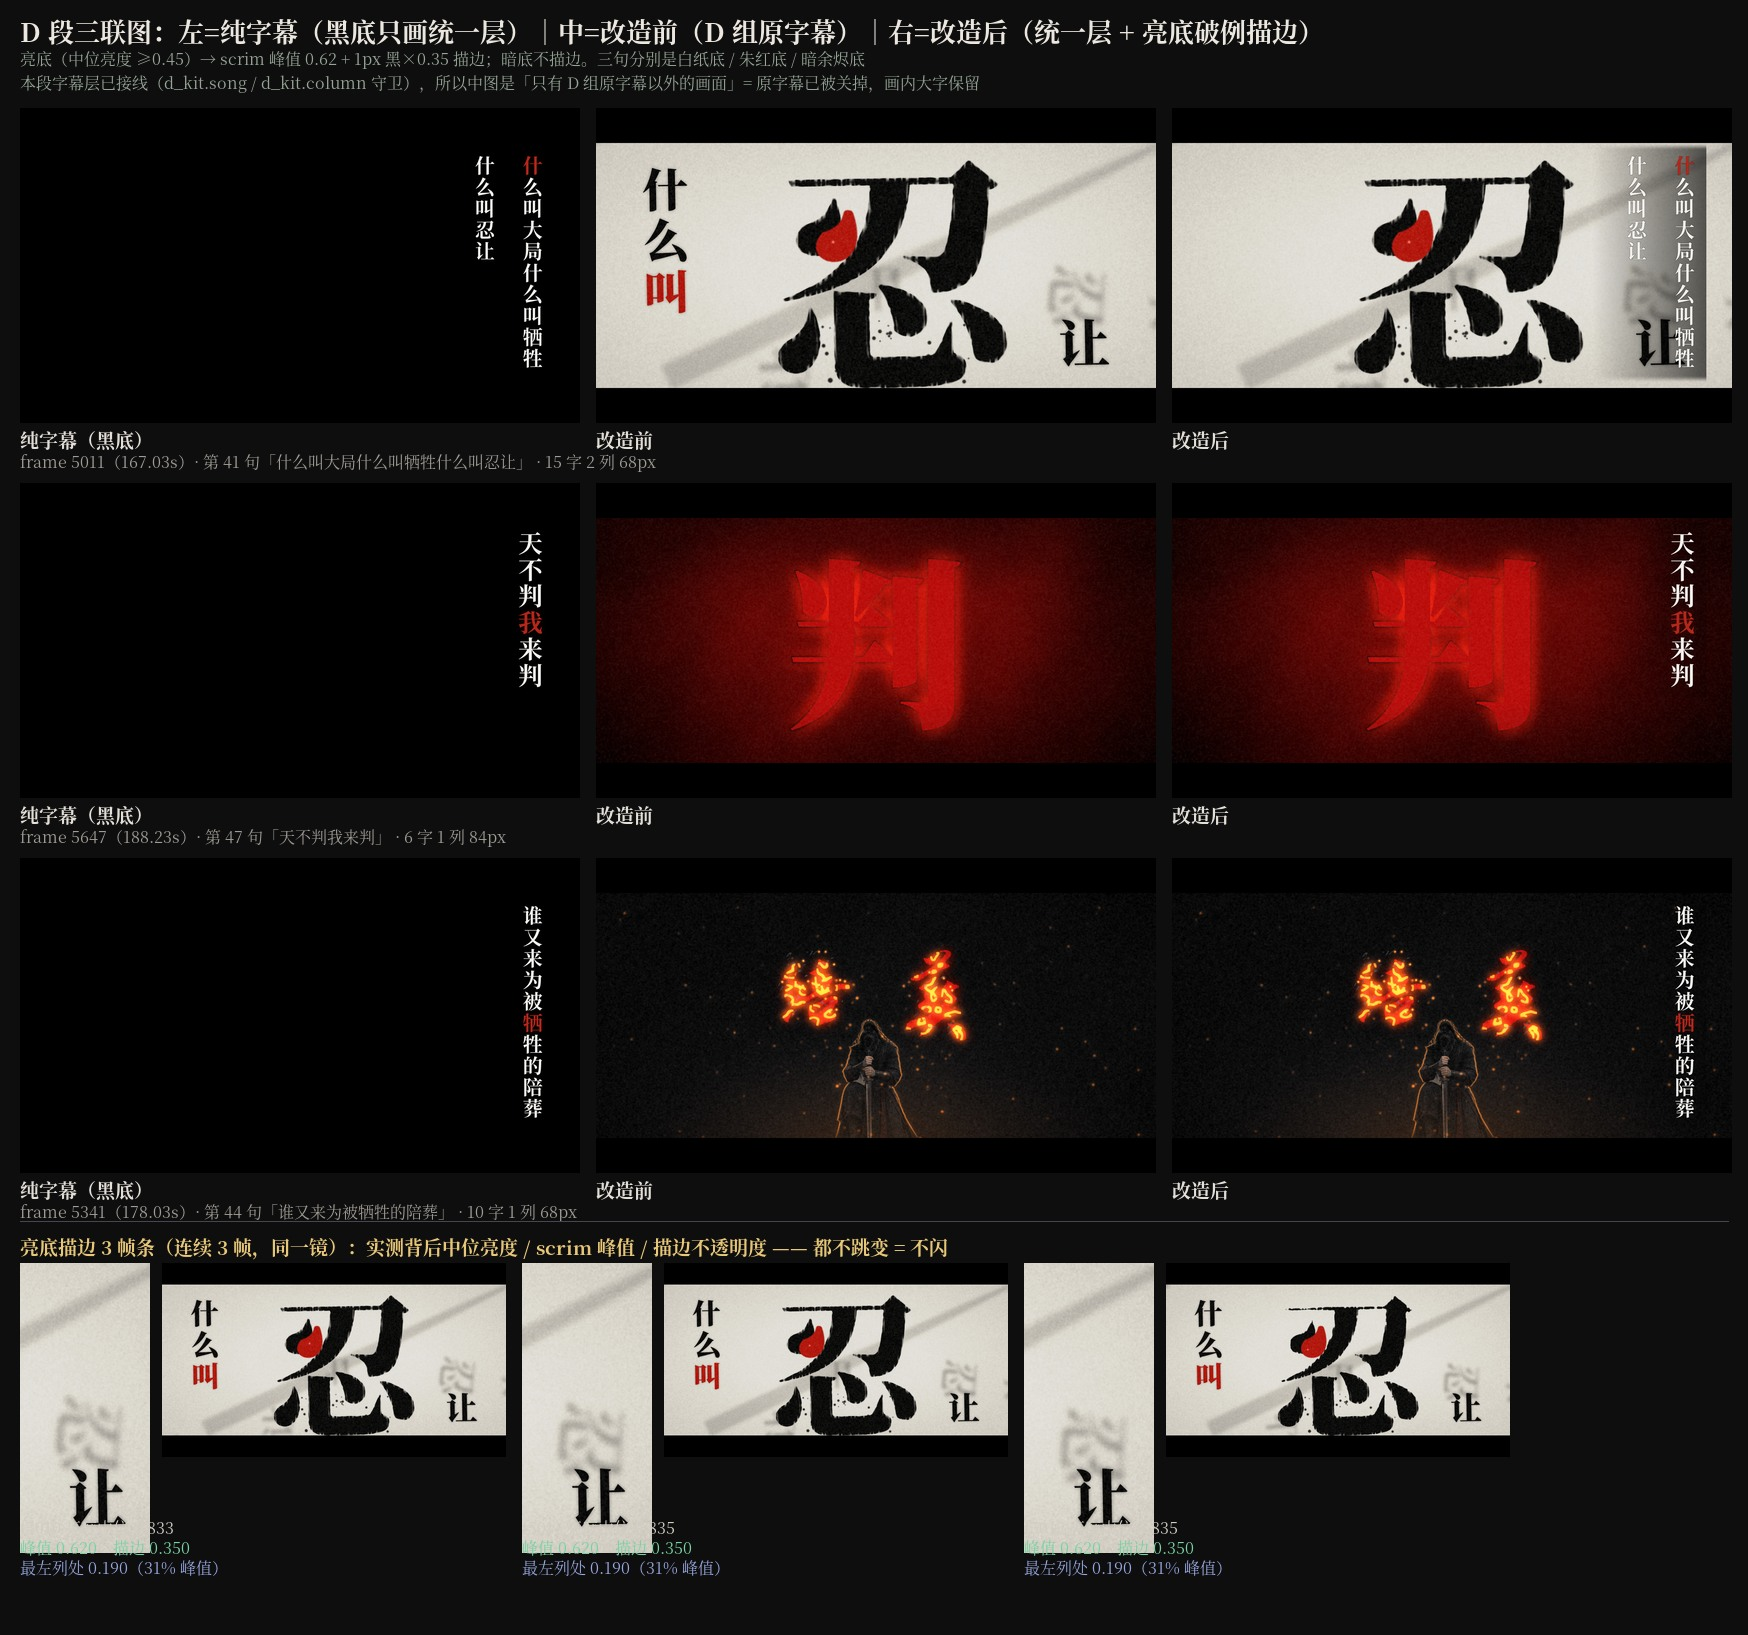
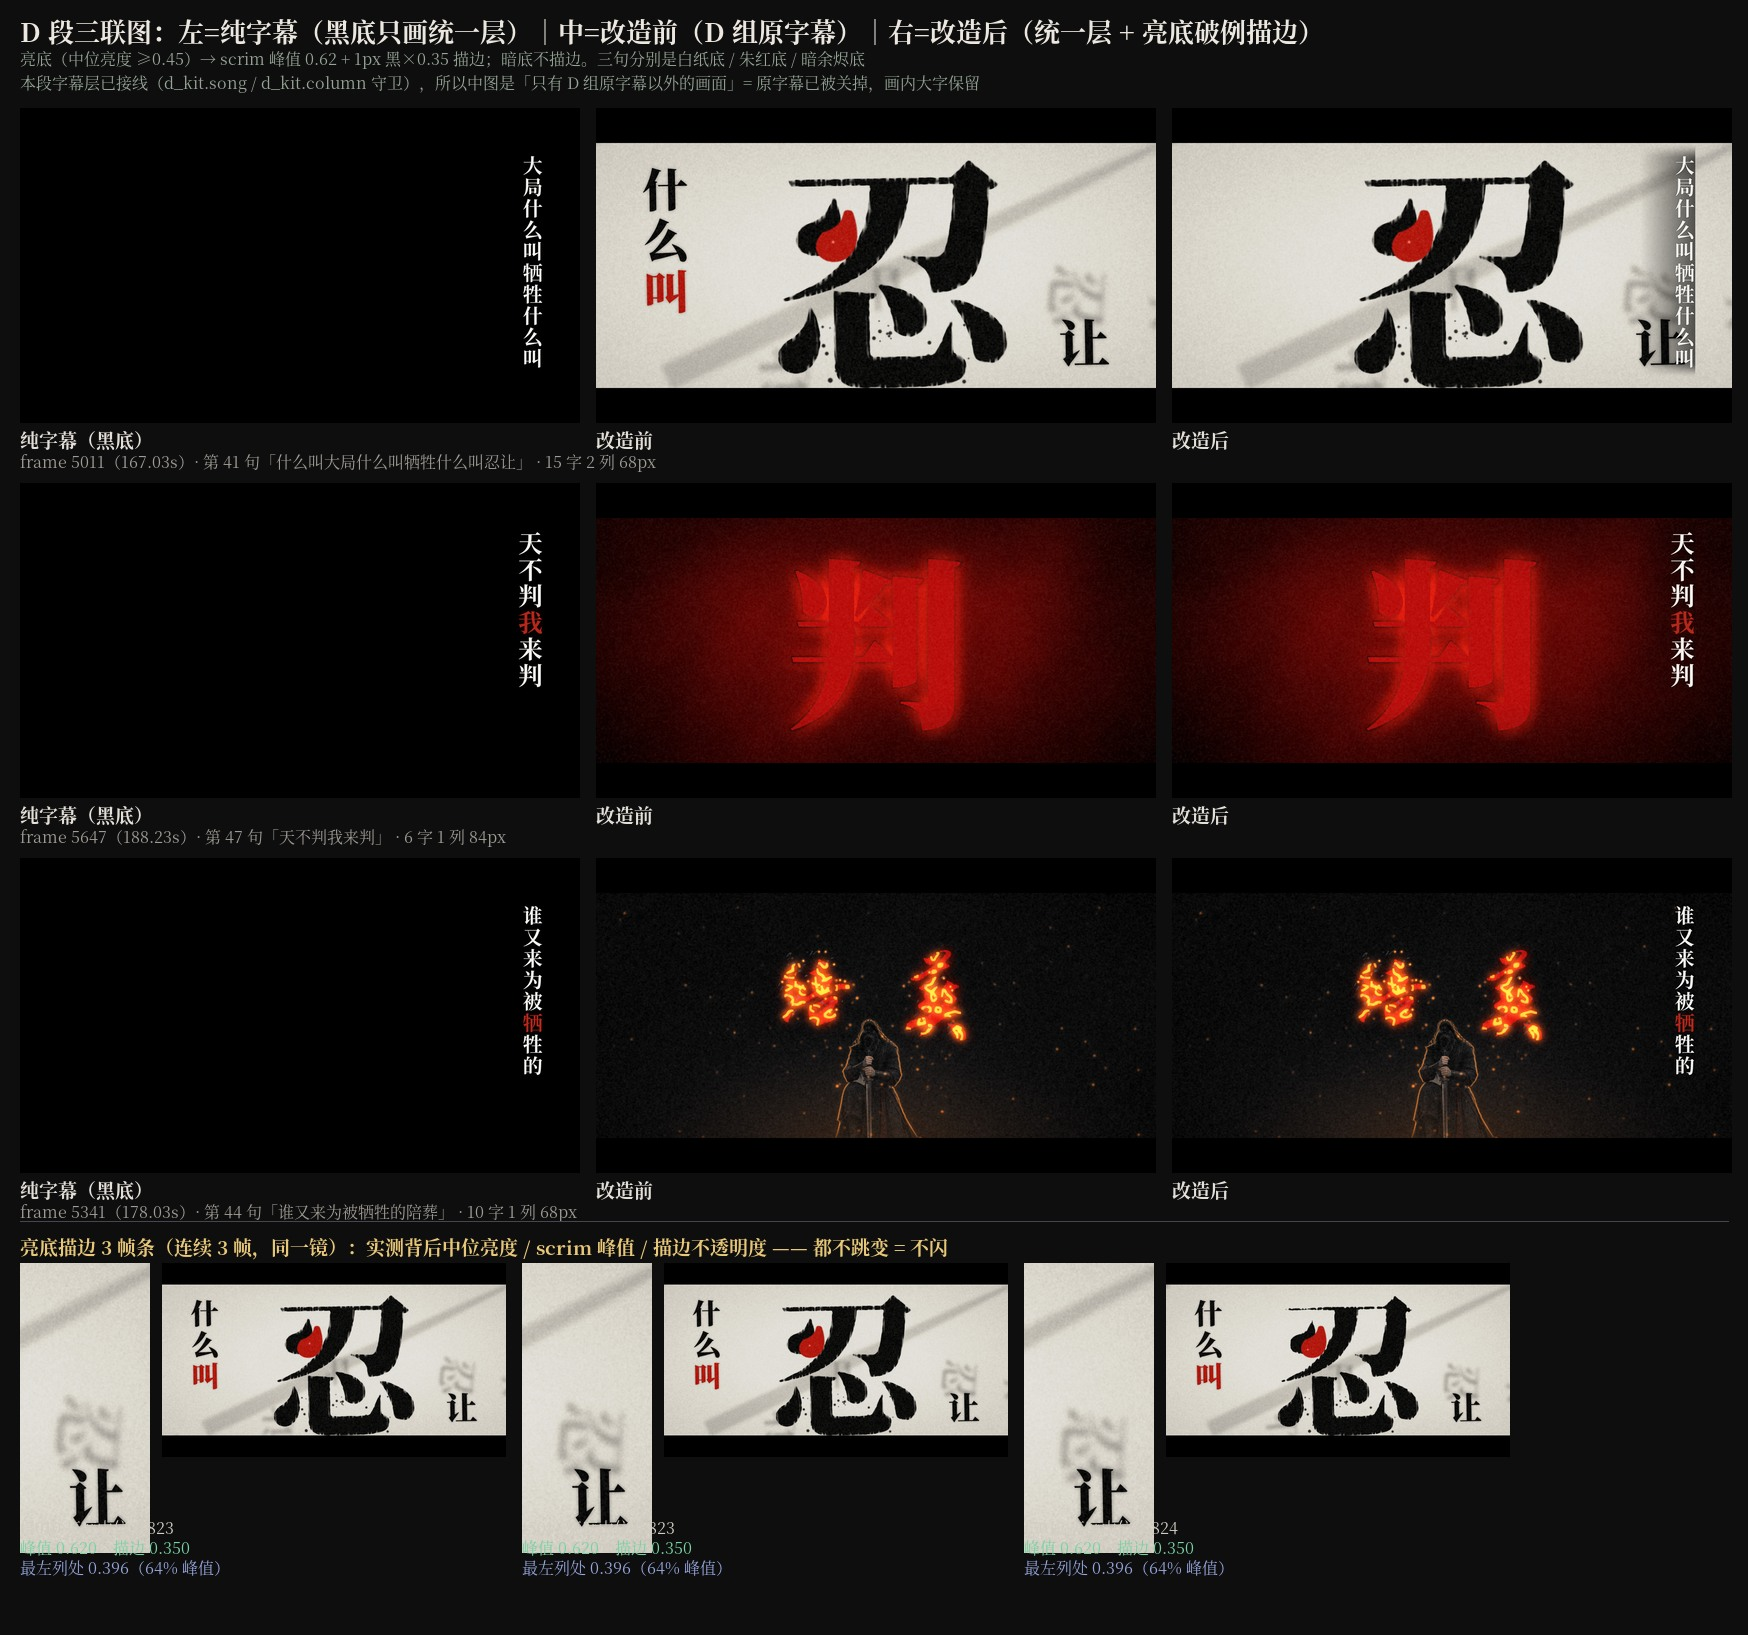
[质量] 字幕线收工：留空≥50% 改整列重排（不留洞）、D段 scrim 只贴字（修硬竖缝）、dupcheck 命令行化；22帧重复0处/336断言全绿

diff --git a/units/lyric_uni.py b/units/lyric_uni.py
@@ -76,8 +76,10 @@ WHITE = (0xF2 / 255.0, 0xF0 / 255.0, 0xEC / 255.0)    # 4 暖白 #F2F0EC
 ACCENT = (0xB3 / 255.0, 0x26 / 255.0, 0x1A / 255.0)   # 4 朱红 #B3261A
 ACCENT_GLOW = 0.16            # 4 极轻朱晕（additive，占比很小）
 
+SCRIM_PAD_Y = 40              # 5 纵向：本列实际 y 区间 ±40px（不做通高暗带）
+SCRIM_FADE = 60               # 5 纵向两端各 60px 线性淡出
 SCRIM_PAD_L = 120             # 5 band 左端 = 最左列左缘 − 120px
-SCRIM_PAD_R = 40              # 5 band 右端 = 1792 + 40px
+SCRIM_PAD_R = 0               # 5 峰值落在 1792（往右到画边缘保持峰值，避免硬竖缝）
 SCRIM_A = 0.42                # 5 峰值 alpha（暗底/中性底）
 SCRIM_A_BRIGHT = 0.62         # 5 亮底峰值（组长批准破例）
 SCRIM_DARK = (0.10, 0.22)     # 5 暗底：背后中位亮度 ≤0.10 → 峰值减半，≥0.22 → 全量
@@ -521,7 +523,7 @@ def _scrim(F, xf, y0, xt, y1, ox=0, oy=0):
     F 是整帧的子区（左上角 = (ox, oy)）。返回 (F, 亮底系数 k) —— k 拿去决定要不要上 1px 描边。
     """
     h, w = F.shape[:2]
-    xa, xb = max(ox, int(xf)), min(ox + w, int(xt))
+    xa, xb = max(ox, int(xf) - 2), min(ox + w, W)     # 区域铺到画右边缘：1792 之后保持峰值，不留硬竖缝
     ya, yb = max(oy, int(y0), BAR), min(oy + h, int(y1), H - BAR)
     if xb <= xa or yb <= ya:
         return F, 0.0
@@ -536,7 +538,7 @@ def _scrim(F, xf, y0, xt, y1, ox=0, oy=0):
     ax = np.clip((xs - float(xf)) / max(1.0, float(xt) - float(xf)), 0.0, 1.0) * a
     ny = yb - ya
     fy = np.ones(ny, np.float32)
-    fe = min(26, ny // 2)
+    fe = min(SCRIM_FADE, ny // 2)                  # 2：两端各 60px 线性淡出（只贴字，不做通高暗带）
     if fe > 2:
         r = np.linspace(0.0, 1.0, fe, dtype=np.float32)
         e = 0.5 - 0.5 * np.cos(np.pi * r)
@@ -573,14 +575,14 @@ def _sentence(F, r, t, ox=0, oy=0):
     v = 1.0 if q <= 0 else max(0.0, 1.0 - q / 1.0)
     if v <= 0.0:
         return F
-    x0, y0, x1, y1 = r['box']
-    _hide = OUT_CHARS | IN_SCENE_HIDE              # 7：留空集合（画面内已有的字 + props 抽走的字）
-    xf, xt = r['band']                             # 5：band = 本句列范围 −120 / +40
-    F, kb = _scrim(F, xf, y0 - 48, xt, y1 + 40, ox, oy)
+    _hide = OUT_CHARS | IN_SCENE_HIDE              # 7：让位集合（画面内已有的字 + props 抽走的字）
+    lay = vis_layout(r, _hide)                     # 7：让位的字**从列里抽掉**、剩下的字上顺排（不留洞）
+    if not lay['pos']:
+        return F
+    xf, xt = lay['band']                           # 5：band = 本句列范围 −120 / +40
+    F, kb = _scrim(F, xf, lay['top'], xt, lay['bot'], ox, oy)
     out_a = OUTLINE_A * kb                         # 亮底才有描边，且随中位亮度平滑淡入
-    for key in r['pos']:
-        if (r['line'], key['k']) in _hide:         # 7 让位：留空占位，不画（IN_SCENE + props 两档）
-            continue
+    for key in lay['pos']:
         p = (t - (key['t'] - IN_LEAD)) / IN_DUR   # 6 逐字墨显
         if p <= 0.0:
             continue
@@ -611,26 +613,63 @@ def scrim_info(fr, f):
         return None
     r = act[0]
     F = (fr.astype(np.float32) / 255.0) if fr.dtype == np.uint8 else np.asarray(fr, np.float32)
-    xf, xt = r['band']
+    lay = vis_layout(r, OUT_CHARS | IN_SCENE_HIDE)
+    xf, xt = lay['band']
     x0, x1 = max(0, int(xf)), min(W, int(xt))
-    y0, y1 = max(BAR, int(r['box'][1]) - 48), min(H - BAR, int(r['box'][3]) + 40)
+    y0, y1 = max(BAR, int(lay['top'])), min(H - BAR, int(lay['bot']))
     reg = F[y0:y1, x0:x1]
     L = float(np.median(reg[..., 0] * 0.299 + reg[..., 1] * 0.587 + reg[..., 2] * 0.114))
     lo, hi = SCRIM_DARK
     kb_ = _ssl(*SCRIM_BRIGHT, L)
     a = (SCRIM_A * (0.5 + 0.5 * _ssl(lo, hi, L))) * (1.0 - kb_) + SCRIM_A_BRIGHT * kb_
-    left_edge = int(r['left'])
+    left_edge = int(lay['left'])
     frac = (left_edge - xf) / max(1.0, xt - xf)   # 最左列左缘落在 band 的比例（=scrim 峰值占比）
     return dict(line=r['line'], band=(int(xf), int(xt)), L=L, peak=a,
                 outline=OUTLINE_A * kb_, left_frac=frac, left_alpha=a * frac)
 
 
+_VLC = {}
+
+
+def vis_layout(r, hide):
+    """把被让位的字从列里抽掉，剩下的字按原字号/列距往上顺排（列变短、不留洞）。
+
+    字号与列宽仍按**整句**定（不因留空而变化），只是列内字数变少；
+    逐字时间不动 —— 抽掉的字跳过，后面字的出现时刻仍按 align 走。
+    """
+    hk = tuple(sorted(k for (ln, k) in hide if ln == r['line']))
+    key = (r['line'], hk)
+    v = _VLC.get(key)
+    if v is not None:
+        return v
+    vis = [c for c in r['chars'] if (r['line'], c['k']) not in hide]
+    pos = []
+    for ci in range(0, max(1, len(vis)), MAX_PER_COL):
+        chunk = vis[ci:ci + MAX_PER_COL]
+        xc = COL_R - r['size'] / 2.0 - (ci // MAX_PER_COL) * (r['size'] + COL_GAP)
+        for j, c in enumerate(chunk):
+            pos.append(dict(k=c['k'], ch=c['ch'], t=c['t'], x=xc,
+                            y=COL_TOP + r['size'] / 2.0 + j * r['size'] * LEAD))
+    if pos:
+        left = min(p['x'] for p in pos) - r['size'] / 2.0
+        bot = max(p['y'] for p in pos) + r['size'] / 2.0
+    else:                                          # 整句都被让位（理论上不该发生）
+        left, bot = COL_R - r['size'] / 2.0, COL_TOP + r['size']
+    v = dict(pos=pos, left=left,
+             band=(left - SCRIM_PAD_L, COL_R + SCRIM_PAD_R),
+             top=COL_TOP - SCRIM_PAD_Y, bot=bot + SCRIM_PAD_Y,
+             n=len(vis))
+    _VLC[key] = v
+    return v
+
+
 def roi(act):
     """当前同屏句子的绘制区（整帧坐标）：列 + scrim，只在这一块里做浮点运算。"""
-    xa = min(r['band'][0] for r in act) - 2         # 含整条 scrim 的起点
-    xb = max(r['band'][1] for r in act) + 2         # 含 scrim 的右端（1792+40）
-    ya = min(r['box'][1] for r in act) - 48
-    yb = max(r['box'][3] for r in act) + 40
+    lay = [vis_layout(r, OUT_CHARS | IN_SCENE_HIDE) for r in act]
+    xa = min(l['band'][0] for l in lay) - 2         # 含整条 scrim 的起点
+    xb = max(l['band'][1] for l in lay) + 2         # 含 scrim 的右端（1792+40）
+    ya = min(l['top'] for l in lay) - 12
+    yb = max(l['bot'] for l in lay) + 12
     return max(0, int(xa)), max(0, int(ya)), min(W, int(xb)), min(H, int(yb))
 
 

diff --git a/tools/lyric_uni_cmp.py b/tools/lyric_uni_cmp.py
@@ -343,6 +343,64 @@ def table():
     return out
 
 
+# ---------------------------------------------------------------- ⑥ 留空重排（compaction）三句三联图
+def compact(frames=None):
+    """三句「留空 ≥50%」重排后的三联图：左=纯字幕（黑底）/ 中=改造前 / 右=改造后。"""
+    import numpy as np
+    from PIL import Image, ImageDraw, ImageFont
+    sys.path.insert(0, os.path.join(ROOT, 'units'))
+    import lyric_uni as LU
+    L = LU.lines()
+    frames = frames or [5863, 5975, 2389]          # 第49句 血未冷刀不放 / 第50句 …天理昭彰 / 第18句 是非对错我自己扛
+    jobs = []
+    for f in frames:
+        jobs.append((0, f, os.path.join(TMP, f'cmpct_{f}_before.png')))
+        jobs.append((1, f, os.path.join(TMP, f'cmpct_{f}_after.png')))
+    render(jobs)
+    os.environ['LYRIC_UNI'] = '1'
+    LU._maybe_out()
+    pur = {}
+    for f in frames:
+        canvas = np.zeros((1080, 1920, 3), np.uint8)
+        pur[f] = LU.draw(canvas, f)
+    os.environ.pop('LYRIC_UNI', None)
+    f_ttl = ImageFont.truetype(FONT, 26)
+    f_cap = ImageFont.truetype(FONT, 19)
+    f_sml = ImageFont.truetype(FONT_L, 16)
+    TW, TH = 560, 315
+    W = 20 + 3 * (TW + 16)
+    H = 110 + len(frames) * (TH + 74)
+    sheet = Image.new('RGB', (W, H), (14, 14, 15))
+    d = ImageDraw.Draw(sheet)
+    d.text((20, 12), '留空 ≥50% 的三句：改成「抽掉 + 上顺排」（列变短，不留空格）', fill=(236, 232, 224), font=f_ttl)
+    d.text((20, 46), '左=纯字幕（黑底）｜中=改造前（各组原字幕）｜右=改造后（统一层）。逐字时间不动：被抽掉的字跳过，后面的字不提前',
+           fill=(150, 165, 150), font=f_sml)
+    d.text((20, 70), '画面里被让位的词仍在（朱印 / 鎏金巨字 / 印阵）—— 只把字幕里重复的那几个字抽掉', fill=(150, 165, 150), font=f_sml)
+    for i, f in enumerate(frames):
+        y = 110 + i * (TH + 74)
+        tiles = [(Image.fromarray(pur[f]), '纯字幕（黑底，已重排）'),
+                 (Image.open(os.path.join(TMP, f'cmpct_{f}_before.png')).convert('RGB'), '改造前'),
+                 (Image.open(os.path.join(TMP, f'cmpct_{f}_after.png')).convert('RGB'), '改造后')]
+        for j, (im, lab) in enumerate(tiles):
+            x = 20 + j * (TW + 16)
+            sheet.paste(_tile(im, TW, TH), (x, y))
+            d.text((x, y + TH + 3), lab, fill=(228, 224, 216), font=f_cap)
+        act = [r for r in L if r['t_on'] <= f / 30.0 < r['t_off']]
+        if act:
+            r = act[0]
+            lay = LU.vis_layout(r, LU.IN_SCENE_HIDE)
+            full = ''.join(c['ch'] for c in r['chars'])
+            left = ''.join(p['ch'] for p in lay['pos'])
+            ncol = max(1, (lay['n'] + 9) // 10)
+            d.text((20, y + TH + 26), '第 %d 句 f%d：原句 %s（%d 字）→ 重排后 %d 字「%s」，%d 列 %dpx' % (
+                r['line'] + 1, f, full, r['n'], lay['n'], left, ncol, r['size']),
+                fill=(160, 156, 148), font=f_sml)
+    out = os.path.join(OUTDIR, 'compact_three.jpg')
+    sheet.save(out, quality=91)
+    print('sheet', out, flush=True)
+    return out
+
+
 # ---------------------------------------------------------------- ⑤ 重复出字：审计 + 像素检测
 def _picks21():
     """7 段 × 3 帧（每段取最长句 / 最短句 / 重音句中那帧）。"""
@@ -408,14 +466,25 @@ def _textmask(img, box):
     return m
 
 
-def dupcheck():
-    """像素检测：21 帧字幕区（x>1500, 200<y<900）里除了「我的字形框」之外还有没有成句的字。"""
+def dupcheck(extra=None):
+    """像素检测：字幕带（x>1500, 200<y<900）里除了「我的字形框」之外还有没有成句的字。
+
+    用法（一行命令，#3 要求）：
+        python3 tools/lyric_uni_cmp.py dupcheck                # 22 帧标准集（7 段×3 句 + 3050）
+        python3 tools/lyric_uni_cmp.py dupcheck 3050 5011      # 额外加帧复检
+    以后任何镜头新增「不走 typo 的私有字幕路径」都必须跑这条 —— audit 看不到私有路径，只有它能兜。
+    """
     import numpy as np
     import cv2
     from PIL import Image
     sys.path.insert(0, os.path.join(ROOT, 'units'))
     import lyric_uni as LU
     picks = _picks21()
+    for f in (extra or []):
+        L = LU.lines()
+        t = f / 30.0
+        act = [r for r in L if r['t_on'] <= t < r['t_off']]
+        picks.append(('EXTRA_f%d' % f, act[0]['line'] if act else 0, int(f)))
     jobs = [(1, f, os.path.join(TMP, f'dup_{f}.png')) for _, _, f in picks]
     render(jobs)
     rows, bad = [], []
@@ -428,8 +497,9 @@ def dupcheck():
         m = _textmask(img, box)
         # 挖掉我自己画的字形框（含 1px 描边与朱晕）
         os.environ['LYRIC_UNI'] = '1'
+        LU._maybe_out()
         for r in LU.active(f / 30.0):
-            for key in r['pos']:
+            for key in LU.vis_layout(r, LU.OUT_CHARS | LU.IN_SCENE_HIDE)['pos']:
                 cx, cy = key['x'] - box[0], key['y'] - box[1]
                 h = int(r['size'] * 0.78)
                 cv2.rectangle(m, (int(cx - h), int(cy - h)), (int(cx + h), int(cy + h)), 0, -1)
@@ -741,8 +811,10 @@ if __name__ == '__main__':
         strips([int(x) for x in sys.argv[2:]] or None)
     elif c == 'audit':
         audit()
+    elif c == 'compact':
+        compact([int(x) for x in sys.argv[2:] if not x.startswith('--')] or None)
     elif c == 'dupcheck':
-        dupcheck()
+        dupcheck([int(x) for x in sys.argv[2:] if not x.startswith('--')])
     elif c == 'dsheet':
         dsheet([int(x) for x in sys.argv[2:]] or None)
     elif c == 'table':

diff --git a/out/lyric_uni/dup_frames.md b/out/lyric_uni/dup_frames.md
@@ -2,7 +2,7 @@
 
 | 段 | 句 | 帧 | 残留笔画块 | 最大面积 | 画面内字（已留空） | 判定 |
 |---|---|---|---|---|---|---|
-| 1_A_intro_verse1 | 2 | 646 | 2 | 291 | 军阵枪尖高光(场景高光)、枪尖高光(场景高光) | ✓ 干净 |
+| 1_A_intro_verse1 | 2 | 646 | 2 | 290 | 军阵枪尖高光(场景高光)、枪尖高光(场景高光) | ✓ 干净 |
 | 1_A_intro_verse1 | 7 | 1193 | 0 | 0 | — | ✓ 干净 |
 | 1_A_intro_verse1 | 8 | 1301 | 0 | 0 | — | ✓ 干净 |
 | 2_B_pre1 | 11 | 1658 | 0 | 0 | — | ✓ 干净 |
@@ -15,12 +15,12 @@
 | 4_B_verse2 | 25 | 3164 | 0 | 0 | 不问 | ✓ 干净 |
 | 4_B_verse2 | 23 | 2975 | 0 | 0 | — | ✓ 干净 |
 | 5_C_pre2_chorus2 | 31 | 3857 | 0 | 0 | — | ✓ 干净 |
-| 5_C_pre2_chorus2 | 33 | 4108 | 3 | 953 | 戟刃/盔缨(场景高光)、盔缨(场景高光)、枪尖(场景高光) | ✓ 干净 |
+| 5_C_pre2_chorus2 | 33 | 4108 | 3 | 923 | 戟刃/盔缨(场景高光)、盔缨(场景高光)、枪尖(场景高光) | ✓ 干净 |
 | 5_C_pre2_chorus2 | 32 | 3943 | 0 | 0 | — | ✓ 干净 |
-| 6_D_bridge | 41 | 5011 | 1 | 12754 | 画面内字 让（D 纸面墨字，字幕已留空） | ✓ 干净 |
+| 6_D_bridge | 41 | 5011 | 1 | 15046 | 画面内字 让（D 纸面墨字，字幕已留空） | ✓ 干净 |
 | 6_D_bridge | 47 | 5647 | 0 | 0 | — | ✓ 干净 |
 | 6_D_bridge | 44 | 5341 | 0 | 0 | 陪葬 | ✓ 干净 |
-| 7_E_final_outro | 50 | 5975 | 4 | 5327 | 画面内字 天理昭彰（E 鎏金巨字，字幕已留空） | ✓ 干净 |
-| 7_E_final_outro | 49 | 5863 | 6 | 4040 | 画面内字 刀不放（E 拳上朱印，字幕已留空） | ✓ 干净 |
+| 7_E_final_outro | 50 | 5975 | 6 | 7758 | 画面内字 天理昭彰（E 鎏金巨字，字幕已留空） | ✓ 干净 |
+| 7_E_final_outro | 49 | 5863 | 6 | 4039 | 画面内字 刀不放（E 拳上朱印，字幕已留空） | ✓ 干净 |
 | 7_E_final_outro | 51 | 6083 | 0 | 0 | — | ✓ 干净 |
 | EVIDENCE_f3050(用户证据帧) | 24 | 3050 | 0 | 0 | — | ✓ 干净 |
